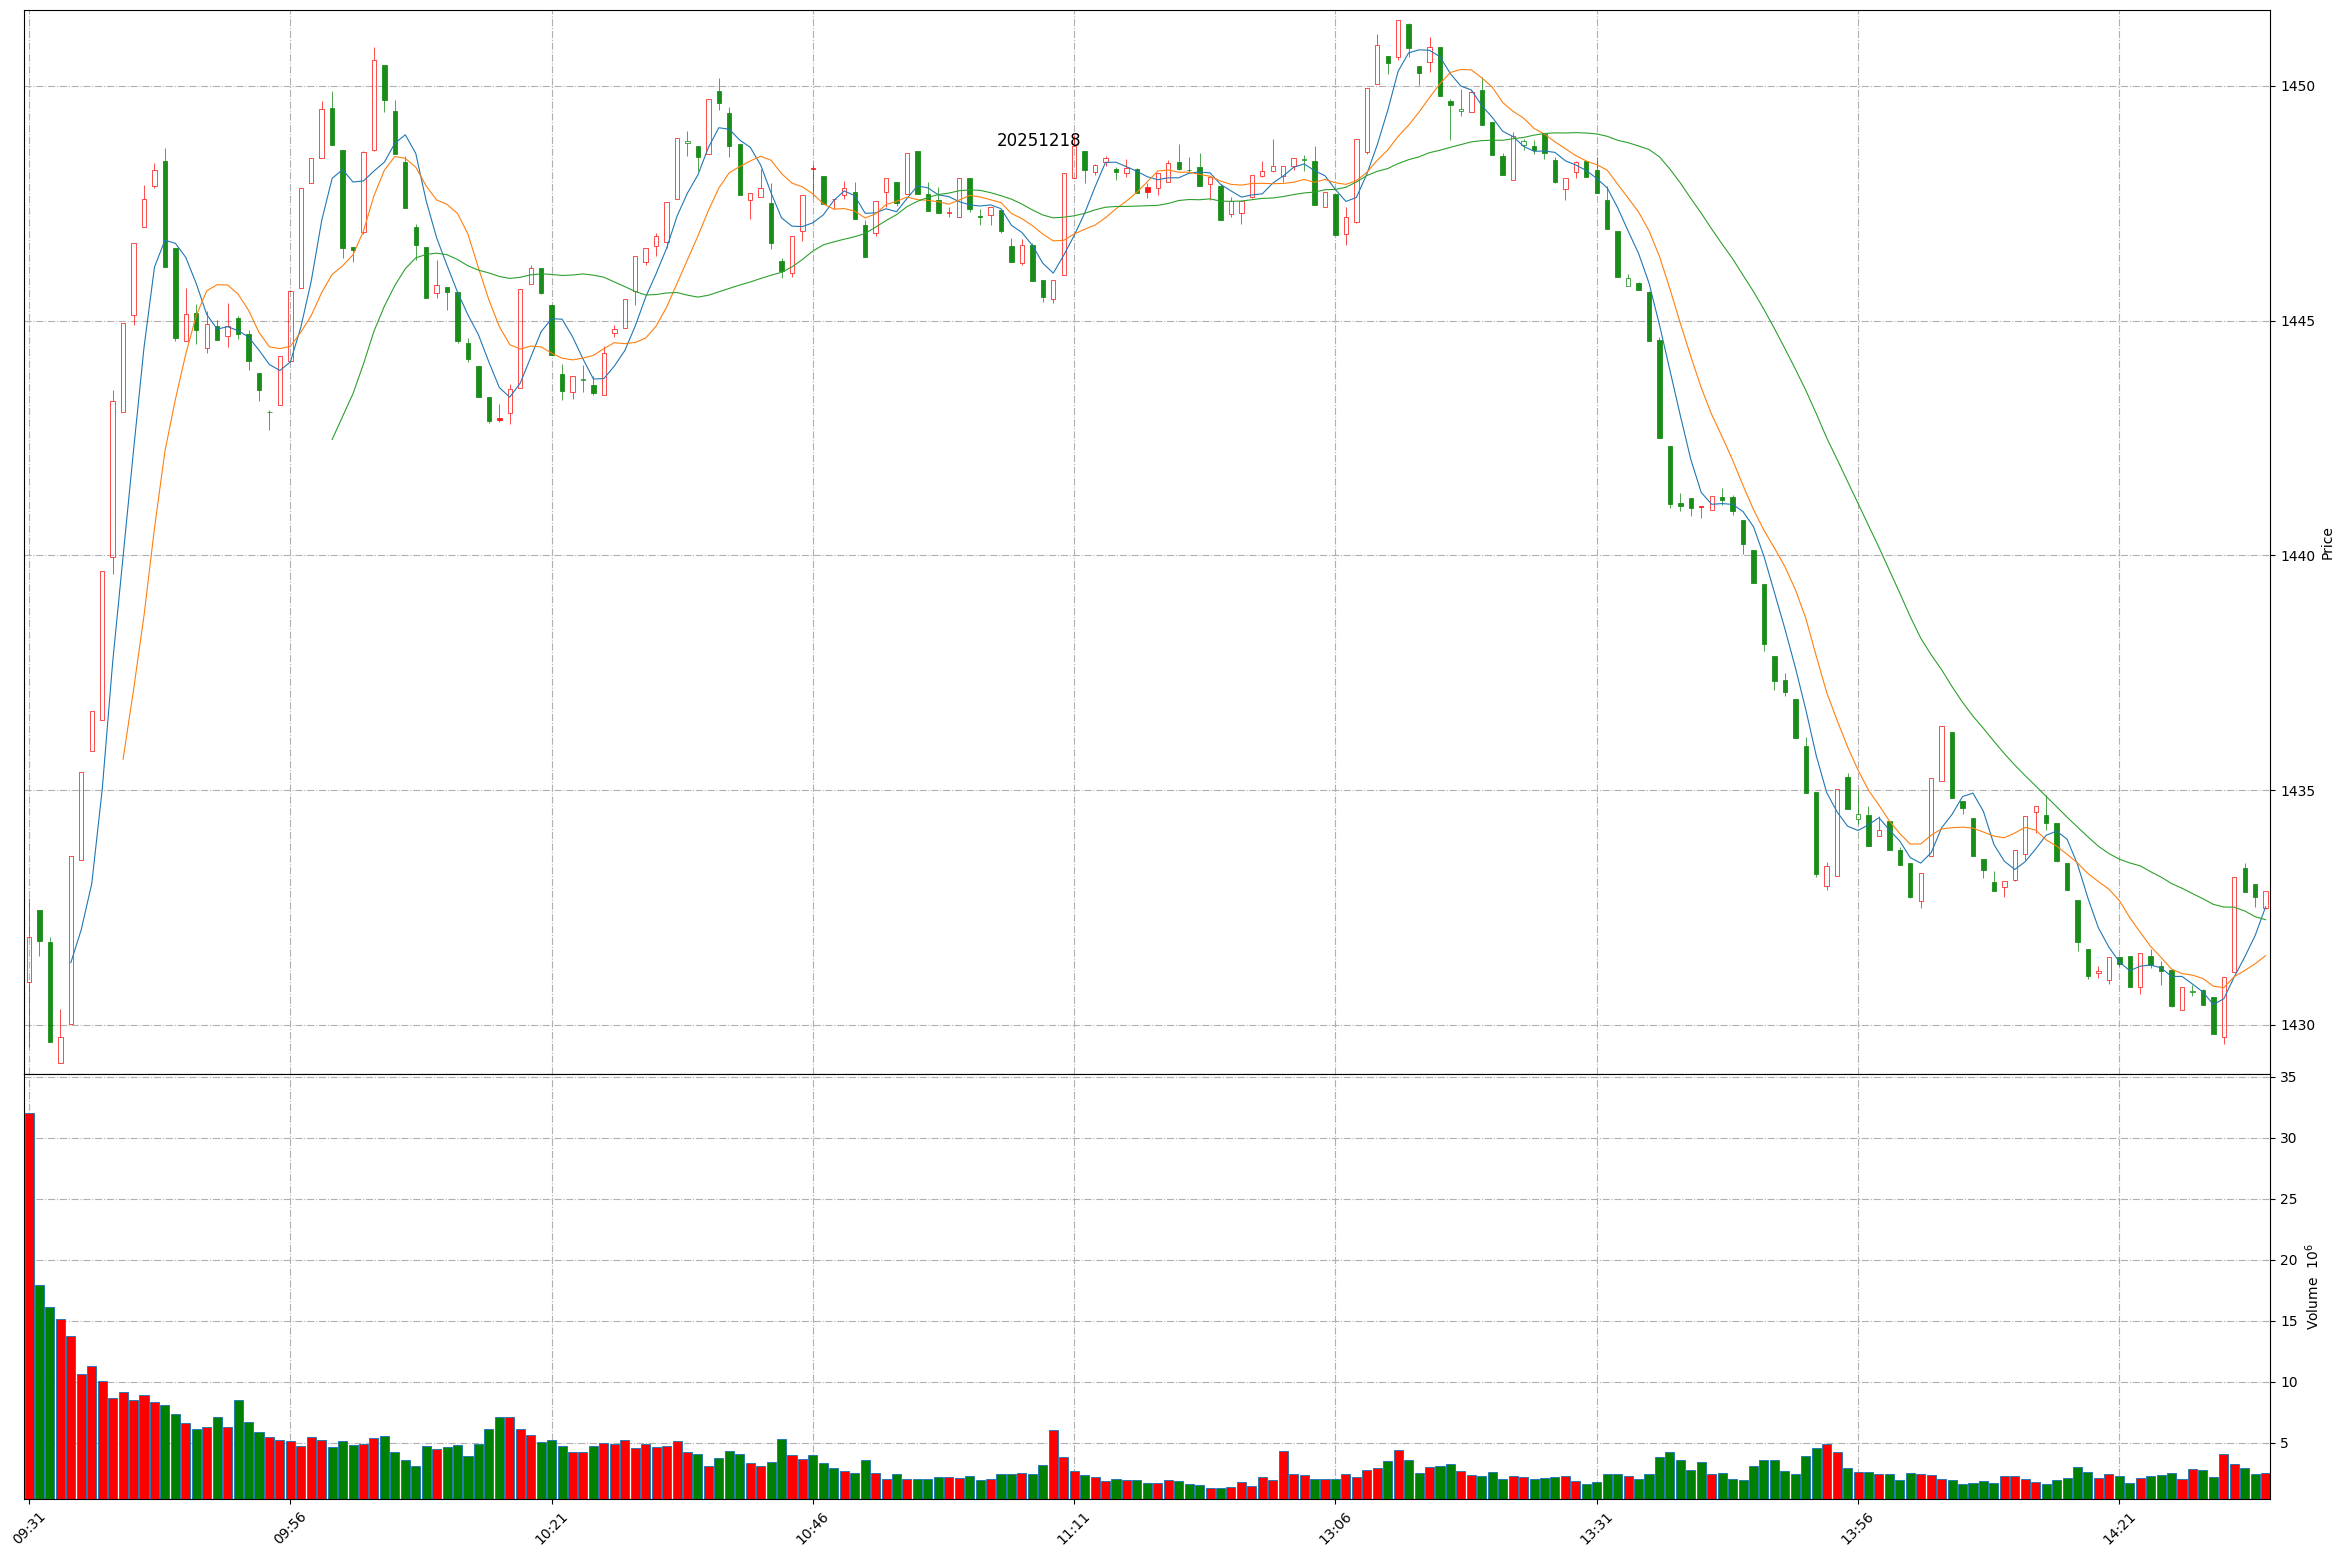
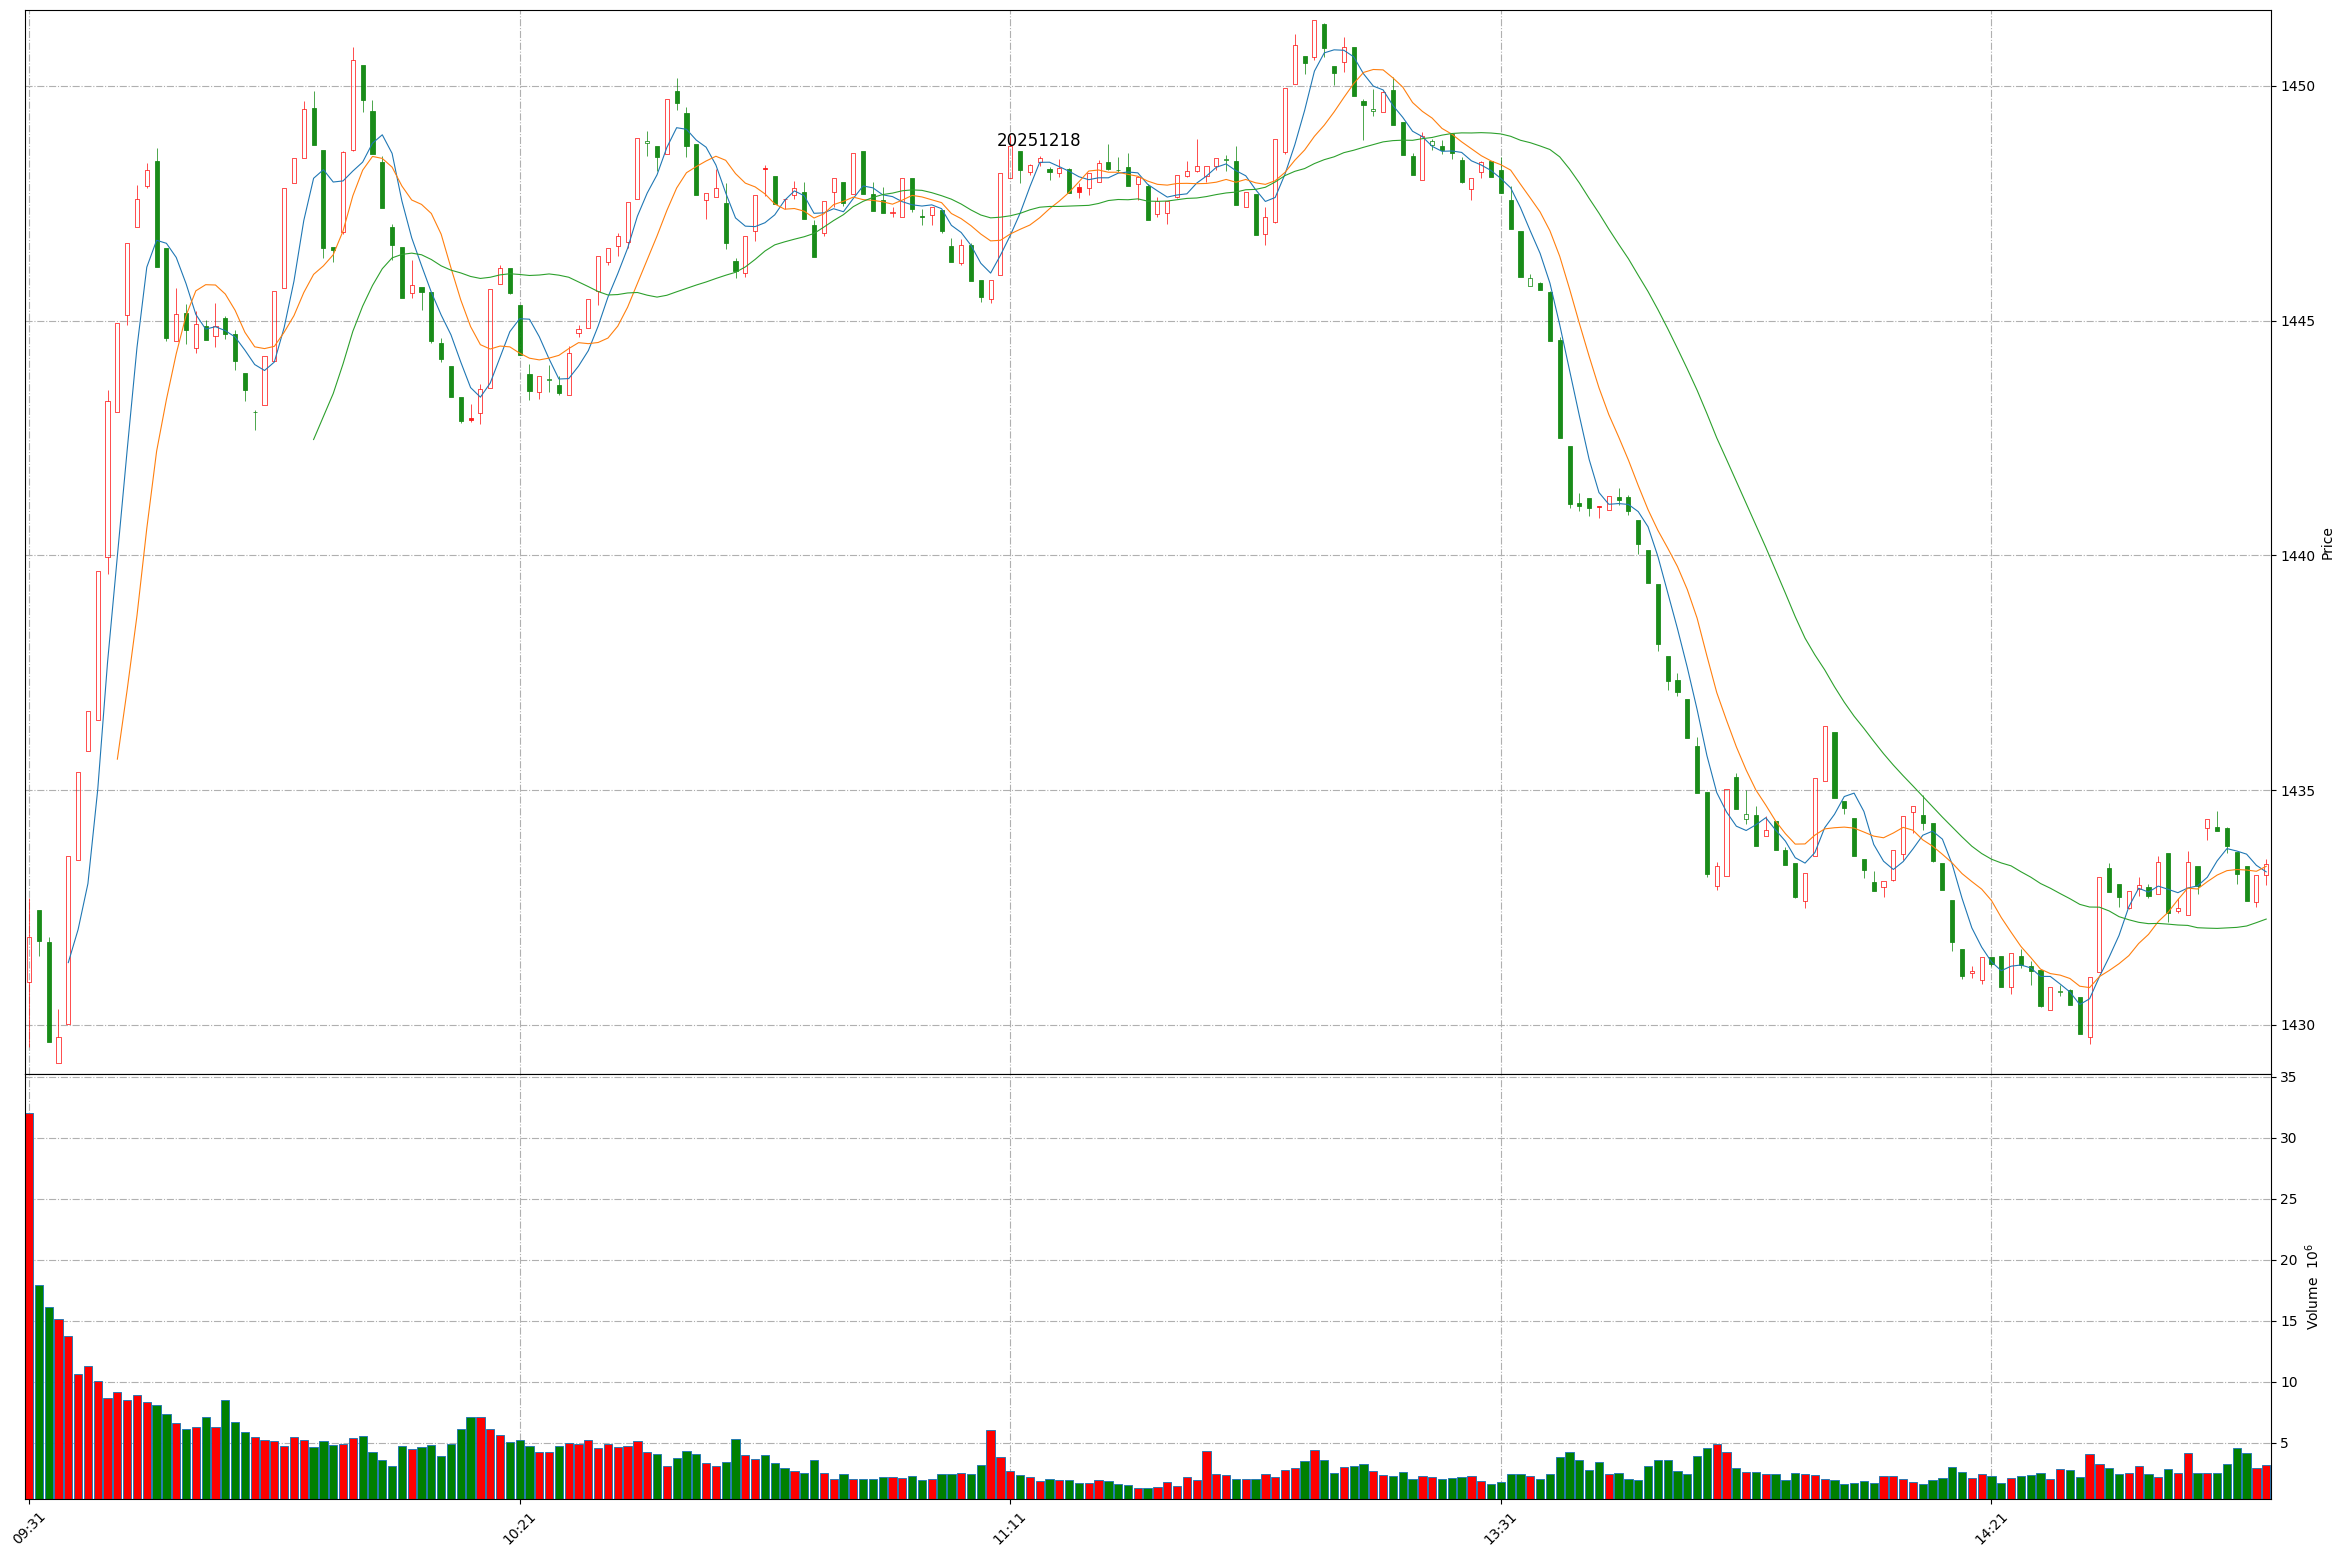
Github action update at 2025-12-18 14:49:02.

diff --git a/README.md b/README.md
@@ -1,11 +1,11 @@
 
 # Daily-A-share-market-quotes 每日 A 股指数（5min 更新）- 20251218
 
-### 上证指数 20251218 14:35
+### 上证指数 20251218 14:49
 ![](./fig/2025/12/20251218-sh000001.png)
 
-### 深证成指 20251218 14:35
+### 深证成指 20251218 14:49
 ![](./fig/2025/12/20251218-sz399001.png)
 
-### 北证50 20251218 14:35
+### 北证50 20251218 14:49
 ![](./fig/2025/12/20251218-bj899050.png)
